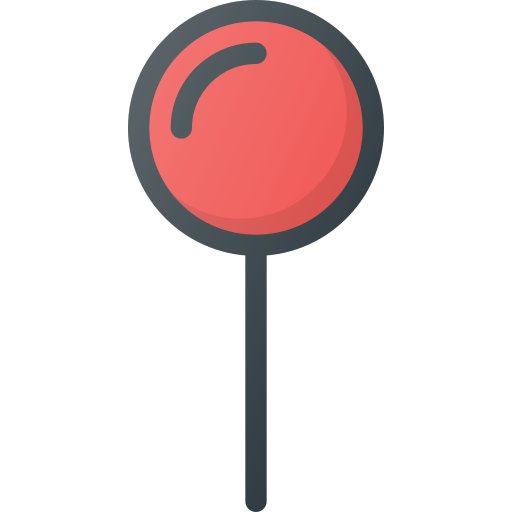
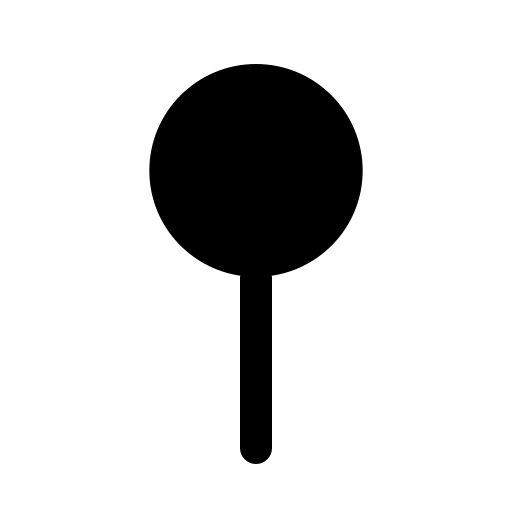
debugged

Changed region(s): [[0.25, 0.0, 0.75, 1.0]]

diff --git a/frontend/src/pages/HomePage2.jsx b/frontend/src/pages/HomePage2.jsx
@@ -36,17 +36,17 @@ delete L.Icon.Default.prototype._getIconUrl;
 
 // Override global defaults
 L.Icon.Default.mergeOptions({
-  iconUrl: "/pin.png", // your Flaticon icon
-  iconRetinaUrl: "pin.png", // same for retina
+  iconUrl: "/pin2.png", // your Flaticon icon
+  iconRetinaUrl: "pin2.png", // same for retina
   shadowUrl: null, // no shadow
-  iconSize: [50, 50], // adjust size (depends on image)
+  iconSize: [30, 30], // adjust size (depends on image)
   iconAnchor: [17, 35], // bottom-center point
   popupAnchor: [0, -30], // popup above the icon
 });
 const flagIcon = new L.Icon({
-  iconUrl: "/flag.png",
-  iconRetinaUrl: "/flag.png",
-  iconSize: [60, 60],
+  iconUrl: "/pin.png",
+  iconRetinaUrl: "/pin.png",
+  iconSize: [30, 30],
   iconAnchor: [30, 60],
   popupAnchor: [0, -50],
 });
@@ -55,7 +55,7 @@ const flagIcon = new L.Icon({
 function HomePage2() {
   const navigate = useNavigate();
   const user = JSON.parse(localStorage.getItem("user") || "{}");
-  console.log("User:", user);
+//   console.log("User:", user);
   const token = localStorage.getItem("token");
 
   const [users, setUsers] = useState([]);
@@ -88,7 +88,10 @@ function HomePage2() {
           headers: { Authorization: `Bearer ${token}` },
         });
         if (!res.ok) throw new Error("Failed to fetch users");
-        setUsers(await res.json());
+        const data= await res.json();
+        console.log("Fetched users:", data);
+     
+        setUsers(data);
         setError(null);
       } catch (err) {
         console.error(err);
@@ -99,6 +102,12 @@ function HomePage2() {
     };
     if (token) fetchUsers();
     else navigate("/login");
+    // Poll every 5 seconds
+  const intervalId = setInterval(fetchUsers, 5000);
+  
+
+  // Cleanup on unmount
+  return () => clearInterval(intervalId);
   }, [token, API_URL, navigate]);
 
   // Fetch zones
@@ -143,38 +152,39 @@ function HomePage2() {
     return () => clearInterval(interval);
   }, [socket, user.id]);
 
-  // Receive other users' locations
-  useEffect(() => {
-    if (!socket) return;
-    const handleReceiveLocation = (data) => {
-      setUsers((prev) => {
-        const idx = prev.findIndex((u) => u.userId === data.userId);
-        if (idx !== -1) {
-          const updated = [...prev];
-          updated[idx] = {
-            ...updated[idx],
-            lastLat: data.lat,
-            lastLng: data.lng,
-            speed: data.speed,
-          };
-          return updated;
-        } else {
-          return [
-            ...prev,
-            {
-              userId: data.userId,
-              lastLat: data.lat,
-              lastLng: data.lng,
-              speed: data.speed,
-              userName: data.userName || "Unnamed",
-            },
-          ];
-        }
-      });
-    };
-    socket.on("receive-location", handleReceiveLocation);
-    return () => socket.off("receive-location", handleReceiveLocation);
-  }, [socket]);
+  // Update  users' locations
+//   useEffect(() => {
+//     if (!socket) return;
+//     const handleReceiveLocation = (data) => {
+//       setUsers((prev) => {
+//         const idx = prev.findIndex((u) => u.userId === data.userId);
+//         if (idx !== -1) {
+//           const updated = [...prev];
+//           updated[idx] = {
+//             ...updated[idx],
+//             lastLat: data.lat,
+//             lastLng: data.lng,
+//             speed: data.speed,
+//           };
+//           return updated;
+//         } else {
+//           return [
+//             ...prev,
+//             {
+//               userId: data.userId,
+//               lastLat: data.lat,
+//               lastLng: data.lng,
+//               speed: data.speed,
+//               userName: data.userName || "Unnamed",
+//             },
+//           ];
+//         }
+//       });
+//     };
+//     socket.on("receive-location", handleReceiveLocation);
+//     console.log("upadted users:", users);
+//     return () => socket.off("receive-location", handleReceiveLocation);
+//   }, [socket]);
 
   // useEffect(() => {
   //   if (!socket) return;
@@ -263,7 +273,7 @@ const userMarkers = useMemo(
 
       {/* Right side */}
       
-        <div className="flex items-center gap-1 relative">
+        <div className="flex items-center  relative">
 
     
 

diff --git a/backend/server.js b/backend/server.js
@@ -35,26 +35,44 @@ io.on("connection", (socket) => {
       speed: data.speed,
       timestamp: new Date(),  
     });
-    // console.log("Location saved:", loc);
-    // console.log("check",loc);
-    // Speed alert check
-    // const SPEED_LIMIT = 60; // km/h
-    // if (data.speed && data.speed > SPEED_LIMIT) {
-    //   io.to(socket.id).emit("speed-alert", {
-    //     userId,
-    //     speed: data.speed,
-    //     message: `Speed limit exceeded! ${data.speed} km/h`,
-    //   });
-    // }
-    // console.log("check");
 
-    // io.emit("receive-location", {
-    //   userId,
-    //   lat: data.lat,
-    //   lng: data.lng,
-    //   speed: data.speed,
-    // });
   });
+ // Interval to send all users' latest location every 5 seconds
+  // const intervalId = setInterval(async () => {
+  //   try {
+  //     const users = await Location.aggregate([
+  //       { $sort: { timestamp: -1 } },
+  //       { $group: { _id: "$userId", last: { $first: "$$ROOT" } } },
+  //       {
+  //         $lookup: {
+  //           from: "users",
+  //           localField: "_id",
+  //           foreignField: "userId",
+  //           as: "userInfo",
+  //         },
+  //       },
+  //       { $unwind: "$userInfo" },
+  //       {
+  //         $project: {
+  //           _id: 0,
+  //           userId: "$_id",
+  //           name: "$userInfo.name",
+  //           email: "$userInfo.email",
+  //           lastLat: "$last.lat",
+  //           lastLng: "$last.lng",
+  //           speed: "$last.speed",
+  //           timestamp: "$last.timestamp",
+  //         },
+  //       },
+  //     ]);
+
+  //     socket.emit("receive-all-locations", users);
+  //   } catch (err) {
+  //     console.error("Error emitting locations:", err);
+  //   }
+  // }, 5000);
+
+
 
   socket.on("disconnect", () => {
     console.log("🔌 socket disconnected", socket.id);
